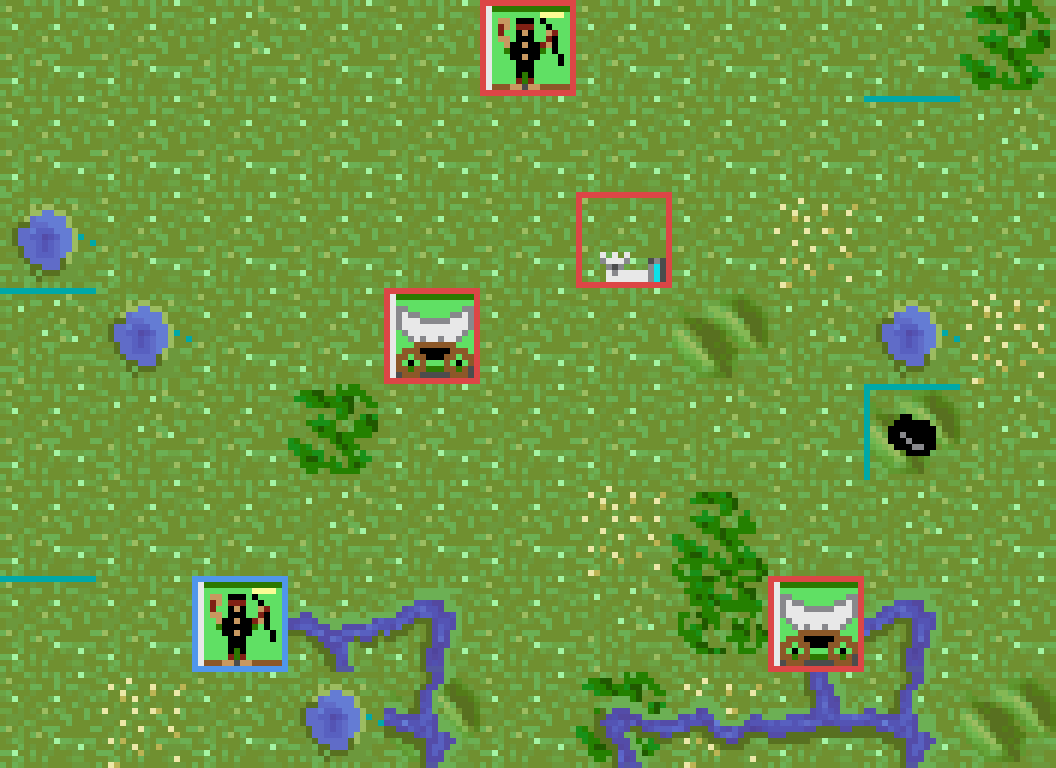
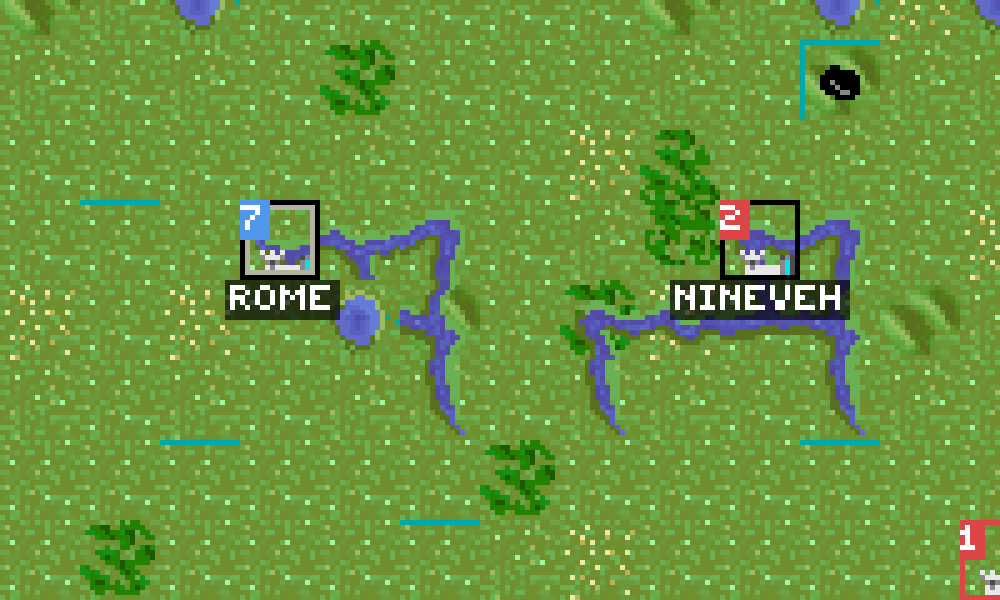
Render Civ1-style cities with text from the game font
Wire a FONTS.CV bitmap font into the SDL view (assets/fonts.cv + src/font.lisp:
parse one font, draw strings pixel-by-pixel). Cities now show a population-size
box in the owner's colour, optional stone walls (inner frame when :walls is
built), and a name label below; the city border is black when a military unit
garrisons it (new model predicate city-defended-p). Garrison units inside a
city are no longer drawn separately so the city/border represents them.
Adds a city-defended test (111 checks); updates the screenshot.

diff --git a/README.md b/README.md
@@ -17,9 +17,10 @@ has expanded into several cities and units (red borders).*
 
 ![cities close-up](docs/cities.png)
 
-*Close-up: city sprites (white skylines) with owner-coloured borders — the
-human's Rome (blue, with a warrior garrison) and the AI's cities (red, one on a
-river) — amid blended terrain, rivers and resource specials.*
+*Cities rendered Civ1-style: a size box (population, in the owner's colour), the
+city graphic, optional walls, a name label, and a **black border** when a
+military unit garrisons it. Rome (size 7) and Nineveh (size 2) are both
+defended; text uses a font extracted from the game's `FONTS.CV`.*
 
 ![fog of war](docs/fog.png)
 
